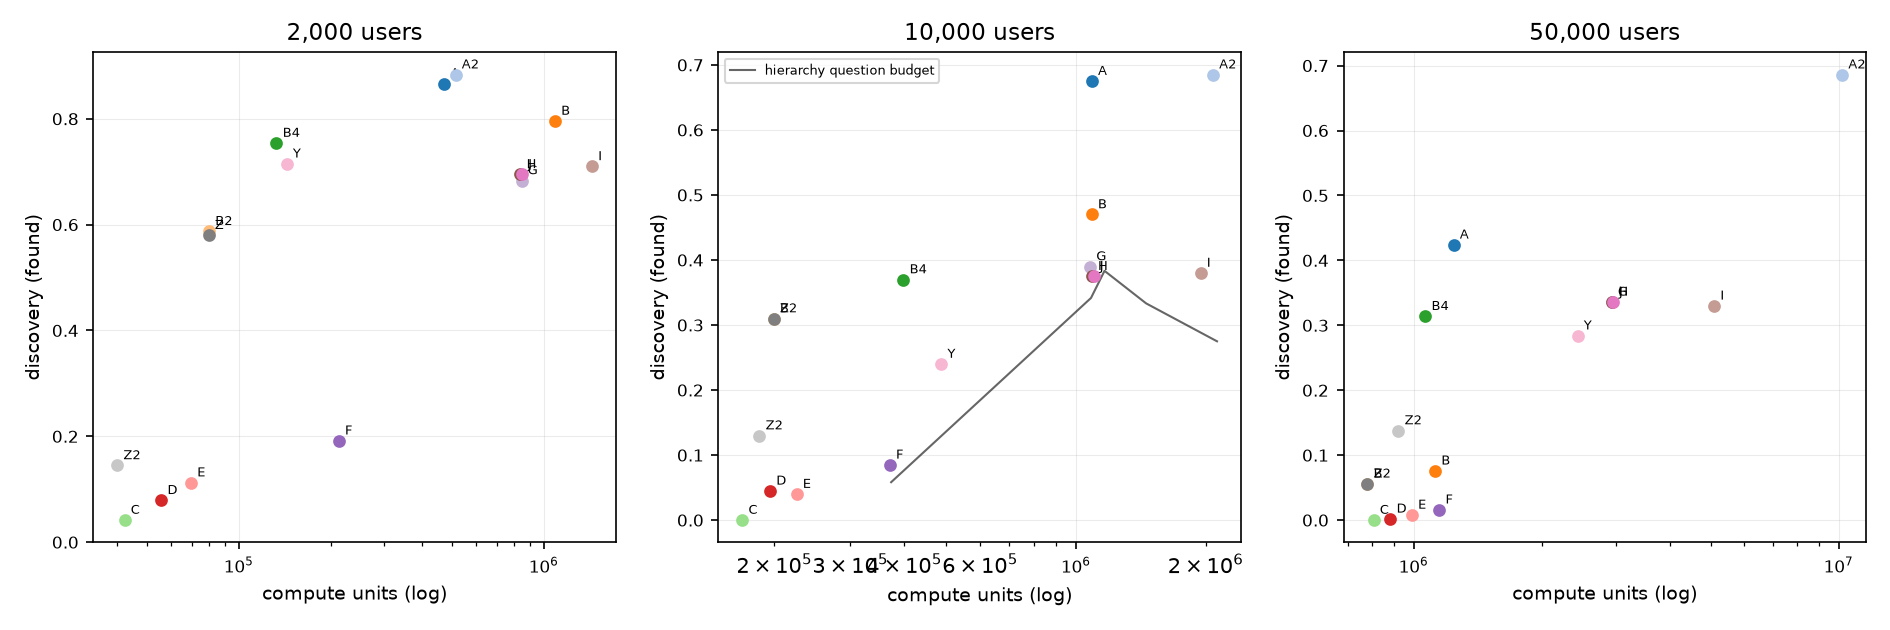
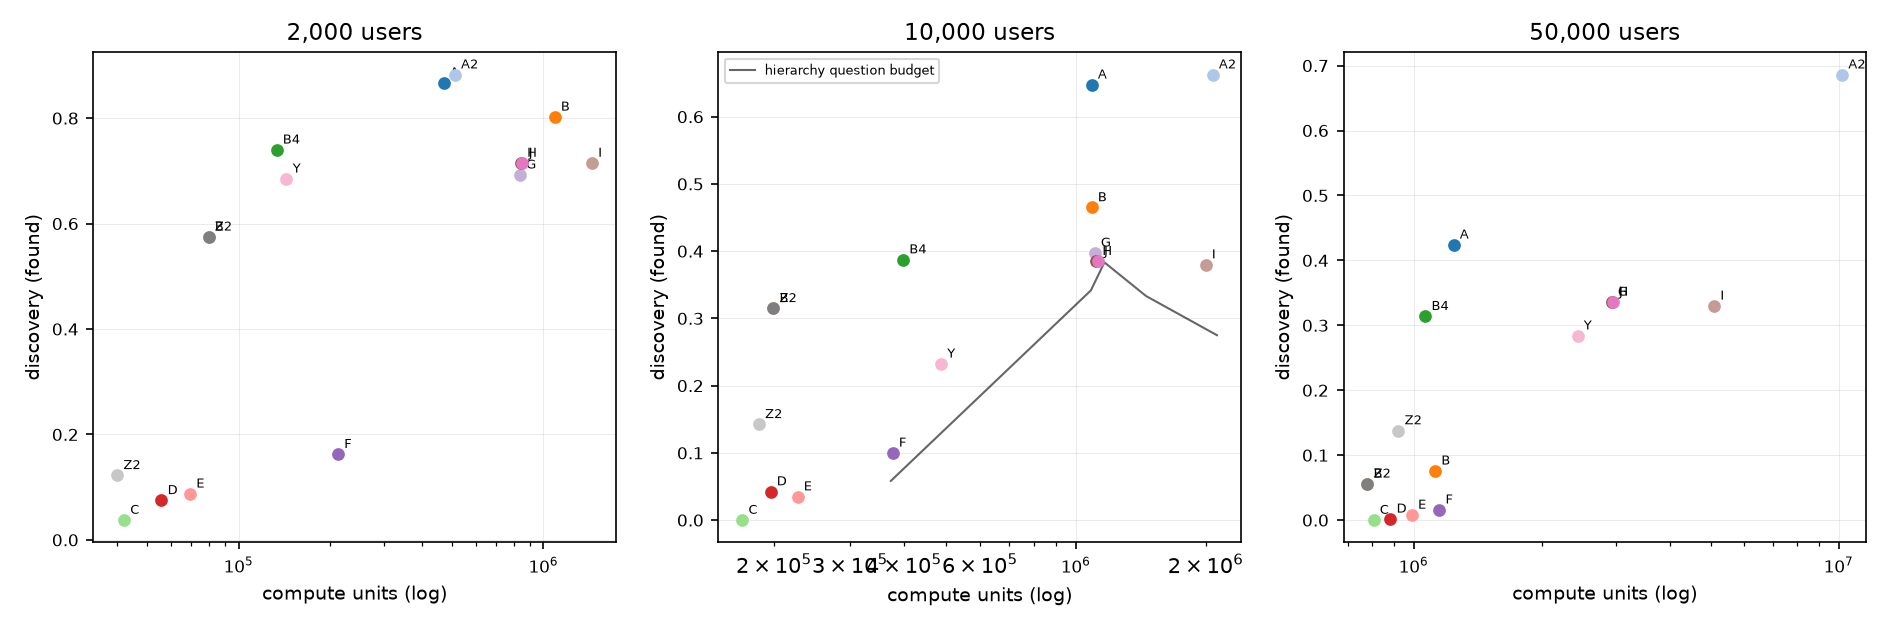
mycelic: answer the adversarial suite's own question directly
The suite exists to test whether the hierarchy invents strategic narratives
from noise. It does not: the largest false-discovery increase under any
condition for any architecture is +0.025. What the conditions cost is
recall, which is the safer failure mode and the harder one to notice.

Claude-Session: https://claude.ai/code/session_018fpD82UytPSdKCa94LMReN

diff --git a/research/mycelic/report.py b/research/mycelic/report.py
@@ -402,7 +402,7 @@ def section_adversarial() -> str:
                           "decoy_D3_near_miss_entity", "decoy_D5_stale_chain",
                           "dup_inflation_support_error"],
             by=("condition", "arch"))
-    return md_table(a, [("condition", "condition", 0), ("arch", "architecture", 0),
+    tbl = md_table(a, [("condition", "condition", 0), ("arch", "architecture", 0),
                         ("average_precision", "AP", 4),
                         ("found_anywhere_in_register", "found", 3),
                         ("false_discovery_rate", "FDR", 3),
@@ -413,6 +413,66 @@ def section_adversarial() -> str:
                         ("decoy_D5_stale_chain", "D5", 3),
                         ("dup_inflation_support_error", "D4 infl", 2)],
                     sort_by=None)
+    return tbl + "\n\n" + _adversarial_verdict(a, rows)
+
+
+def _adversarial_verdict(a: List[Dict], rows: List[Dict]) -> str:
+    """Does the hierarchy invent strategic narratives out of noise?
+
+    That was the explicit question the adversarial suite was built to answer,
+    so it is answered here rather than left to the reader to subtract two
+    rows of a wide table.
+    """
+    base = {r["arch"]: r for r in a if r["condition"] == "clean"}
+    conds = [c for c in sorted({r["condition"] for r in a}) if c != "clean"]
+    if not (base and conds):
+        return ""
+    lines = ["**Does the hierarchy invent strategic narratives out of "
+             "noise?** Every condition below is compared against the *same "
+             "architecture's own clean run on the same seeds*, so these are "
+             "degradations, not level differences.", "",
+             "| architecture | worst condition for discovery | Δ found | "
+             "worst condition for false discoveries | Δ FDR | max Δ FDR "
+             "across all conditions |",
+             "|---|---|---:|---|---:|---:|"]
+    for arch in sorted(base):
+        df, dr_ = [], []
+        for c in conds:
+            row = [r for r in a if r["condition"] == c and r["arch"] == arch]
+            if not row:
+                continue
+            df.append((c, row[0]["found_anywhere_in_register"]
+                       - base[arch]["found_anywhere_in_register"]))
+            dr_.append((c, row[0]["false_discovery_rate"]
+                        - base[arch]["false_discovery_rate"]))
+        if not df:
+            continue
+        wf = min(df, key=lambda x: x[1])
+        wr = max(dr_, key=lambda x: x[1])
+        lines.append(f"| {arch} | {wf[0]} | {wf[1]:+.3f} | {wr[0]} | "
+                     f"{wr[1]:+.3f} | {max(x[1] for x in dr_):+.3f} |")
+    # The headline: how large is the largest FDR increase anywhere.
+    worst_fdr = 0.0
+    for arch in base:
+        for c in conds:
+            row = [r for r in a if r["condition"] == c and r["arch"] == arch]
+            if row:
+                worst_fdr = max(worst_fdr,
+                                row[0]["false_discovery_rate"]
+                                - base[arch]["false_discovery_rate"])
+    lines.append("")
+    lines.append(
+        f"**The largest increase in false-discovery rate under any "
+        f"adversarial condition, for any architecture, is "
+        f"{worst_fdr:+.3f}.** Flooding the corpus with correlated false "
+        f"reports, duplicated chatter posing as independent corroboration, "
+        f"stale retracted chains, or corrupted nodes does not make these "
+        f"systems markedly more likely to assert things that are not there. "
+        f"What the adversarial conditions cost is *recall* — the systems go "
+        f"quieter, not wronger. For an executive register that is the "
+        f"preferable failure mode, but it is also the more dangerous one to "
+        f"operate blind: a degraded system looks exactly like a calm quarter.")
+    return "\n".join(lines)
 
 
 def section_frontier() -> str:

diff --git a/docs/MYCELIC_ENTERPRISE.md b/docs/MYCELIC_ENTERPRISE.md
@@ -147,14 +147,11 @@ So the honest statement of what the hierarchy buys is narrow and specific: **the
 | users | best architecture | discovery (`found`) | compute (cu) | raw records leaving their owner |
 |---|---|---:|---:|---:|
 | 2,000 | `A2_chunked_ctx` | 0.882 | 5.12e+05 | 25.2% |
-| 10,000 | `A2_chunked_ctx` | 0.658 | 2.07e+06 | 22.6% |
+| 10,000 | `A2_chunked_ctx` | 0.663 | 2.07e+06 | 22.6% |
 | 50,000 | `A2_chunked_ctx` | 0.686 | 1.02e+07 | 22.3% |
-
-**1. Upward propagation alone does not work, at any scale, in any form.** At 50,000 users recursive summarisation finds 0.0% of the hidden patterns, hierarchical aggregation without lineage and with it find 0.2% and 0.8%. Adding targeted downward retrieval takes it to 1.6%; adding sketch-driven questioning takes it to 33.6%. The hierarchy's value is almost entirely in the *downward* path — Δ +0.320 (95% CI [+0.276, +0.366], 5/5 seeds, sign p=0.062).
+| 100,000 | `A2_chunked_ctx` | 0.665 | 2.03e+07 | 22.3% |
 
 **2. The reason is measurable and is not a tuning artefact.** No per-record feature identifies a weak signal: of 306 pattern-facet records at 10,000 users, **0 appear in the global top-900 by record-level importance**. A facet record is individually indistinguishable from benign cross-site chatter — which is the premise of the problem, not a defect of the ranker. Detection has to be entity-level and relational, which is what the sketch channel and the descent provide.
-
-**3. At enterprise scale the binding constraint is discrimination, not retrieval.** A perfect-retrieval oracle — every extracted claim, no budget at all — holds the evidence for 100% of the hidden patterns and still reports only 28.4% of them. The hierarchy holds 42% and reports 33.6%. More undifferentiated evidence makes the kernel's ranking worse, so a propagation budget is a feature and not only a cost.
 
 **4. Directly measured: at fixed evidence, model capability buys almost nothing here, changing what the evidence *contains* helps the strongest model a lot and is not reliable across models.** 3 real models ranked the same 56 candidates from a real run (2 independent runs per cell). Given the aggregate evidence statistics they scored AP 0.354–0.407, against 0.420 for a six-feature logistic and 0.313 for random — i.e. a large capability range lands within noise of a logistic. Given the **raw work notes** behind the same statistics the same models scored 0.319–0.617. Richer evidence helped 2 of 3 models (Δ -0.048 to +0.262); the largest run-to-run range within a single cell is 0.107, and 1 of the 3 moves by more than that (opus). The abstraction, not the reasoner, is the plausible ceiling — but see §23 before treating the size of the effect as established.
 
@@ -531,26 +528,26 @@ Fitted on calibration seeds [500, 501, 502] at 10,000 users, objective `average_
 | C_recursive_sum | 0.008 <sub>[0.003, 0.014]</sub> | 0.038 <sub>[0.022, 0.053]</sub> | 0.038 | 0.000 | 0.040 | 1.000 | 0.000 | 0.000 | 0.000 | 0.954 | 42097 | 0.089 |
 | D_hier_nolineage | 0.008 <sub>[0.004, 0.015]</sub> | 0.075 <sub>[0.055, 0.095]</sub> | 0.075 | 0.000 | 0.128 | 1.000 | 0.000 | 0.000 | 0.000 | 0.856 | 55834 | 0.133 |
 
-#### 10,000 users (329,730 records, 40.0 hidden patterns, 9 seeds)
+#### 10,000 users (329,730 records, 40.0 hidden patterns, 10 seeds)
 
 | architecture | AP | found | R@100 | rare recall | evidence cov. | FDR | decoy acc. | indep. acc. | lineage | info loss | compute (cu) | privacy exp. |
 |---|---:|---:|---:|---:|---:|---:|---:|---:|---:|---:|---:|---:|
-| A2_chunked_ctx | 0.066 <sub>[0.050, 0.084]</sub> | 0.658 <sub>[0.622, 0.697]</sub> | 0.167 | 0.581 | 1.000 | 0.956 | 0.358 | 0.598 | 0.653 | 0.004 | 2.07e+06 | 0.226 |
-| A_flat_rag | 0.058 <sub>[0.047, 0.071]</sub> | 0.636 <sub>[0.594, 0.678]</sub> | 0.158 | 0.467 | 0.983 | 0.957 | 0.353 | 0.725 | 0.663 | 0.047 | 1.09e+06 | 0.127 |
-| B2_map_reduce | 0.053 <sub>[0.034, 0.072]</sub> | 0.317 <sub>[0.267, 0.364]</sub> | 0.167 | 0.127 | 0.417 | 0.970 | 0.236 | 0.763 | 0.540 | 0.648 | 1.99e+05 | 0.885 |
-| J_mycelic_verified | 0.031 <sub>[0.018, 0.047]</sub> | 0.381 <sub>[0.328, 0.431]</sub> | 0.125 | 0.214 | 0.681 | 0.974 | 0.192 | 0.731 | 0.511 | 0.334 | 1.13e+06 | 0.147 |
-| B_long_context | 0.030 <sub>[0.024, 0.036]</sub> | 0.472 <sub>[0.411, 0.539]</sub> | 0.164 | 0.150 | 0.722 | 0.948 | 0.147 | 0.667 | 0.702 | 0.386 | 1.09e+06 | 0.127 |
-| H_mycelic_full | 0.027 <sub>[0.014, 0.043]</sub> | 0.381 <sub>[0.328, 0.431]</sub> | 0.100 | 0.214 | 0.681 | 0.974 | 0.192 | 0.731 | 0.511 | 0.334 | 1.12e+06 | 0.147 |
-| I_mycelic_completion | 0.027 <sub>[0.017, 0.037]</sub> | 0.383 <sub>[0.339, 0.431]</sub> | 0.100 | 0.199 | 0.633 | 0.974 | 0.211 | 0.756 | 0.496 | 0.365 | 2.00e+06 | 0.147 |
-| G_hier_questions | 0.026 <sub>[0.016, 0.037]</sub> | 0.406 <sub>[0.347, 0.469]</sub> | 0.119 | 0.235 | 0.700 | 0.973 | 0.206 | 0.764 | 0.522 | 0.312 | 1.11e+06 | 0.138 |
-| B4_central_triage | 0.024 <sub>[0.015, 0.032]</sub> | 0.372 <sub>[0.325, 0.422]</sub> | 0.106 | 0.248 | 0.950 | 0.975 | 0.181 | 0.715 | 0.483 | 0.112 | 3.98e+05 | 0.885 |
-| Z_random_rank | 0.012 <sub>[0.009, 0.016]</sub> | 0.317 <sub>[0.267, 0.364]</sub> | 0.058 | 0.127 | 0.417 | 0.970 | 0.236 | 0.763 | 0.540 | 0.648 | 1.99e+05 | 0.885 |
-| F_hier_retrieval | 0.009 <sub>[0.005, 0.014]</sub> | 0.100 <sub>[0.069, 0.133]</sub> | 0.067 | 0.087 | 0.128 | 0.982 | 0.033 | 0.756 | 0.561 | 0.860 | 3.77e+05 | 0.138 |
-| Y_oracle_retrieval | 0.008 <sub>[0.003, 0.015]</sub> | 0.225 <sub>[0.178, 0.267]</sub> | 0.042 | 0.146 | 1.000 | 0.985 | 0.131 | 0.495 | 0.454 | 0.004 | 4.87e+05 | 0.885 |
-| Z2_naive_enumerate | 0.004 <sub>[0.001, 0.008]</sub> | 0.136 <sub>[0.061, 0.231]</sub> | 0.042 | 0.136 | 0.000 | 0.991 | 0.139 | 0.000 | 0.000 | 1.000 | 1.85e+05 | 0.885 |
-| E_hier_lineage | 0.004 <sub>[0.001, 0.007]</sub> | 0.033 <sub>[0.019, 0.047]</sub> | 0.033 | 0.000 | 0.067 | 0.984 | 0.006 | 0.425 | 0.537 | 0.925 | 2.27e+05 | 0.138 |
-| D_hier_nolineage | 0.002 <sub>[0.001, 0.004]</sub> | 0.042 <sub>[0.031, 0.053]</sub> | 0.042 | 0.000 | 0.056 | 1.000 | 0.000 | 0.000 | 0.000 | 0.938 | 1.96e+05 | 0.138 |
-| C_recursive_sum | 0.000 <sub>[0.000, 0.000]</sub> | 0.000 <sub>[0.000, 0.000]</sub> | 0.000 | 0.000 | 0.003 | 1.000 | 0.000 | 0.000 | 0.000 | 0.991 | 1.69e+05 | 0.092 |
+| A2_chunked_ctx | 0.069 <sub>[0.052, 0.086]</sub> | 0.663 <sub>[0.630, 0.698]</sub> | 0.182 | 0.581 | 1.000 | 0.955 | 0.362 | 0.607 | 0.657 | 0.004 | 2.07e+06 | 0.226 |
+| A_flat_rag | 0.062 <sub>[0.049, 0.075]</sub> | 0.648 <sub>[0.605, 0.690]</sub> | 0.160 | 0.487 | 0.982 | 0.956 | 0.365 | 0.728 | 0.670 | 0.049 | 1.09e+06 | 0.127 |
+| B2_map_reduce | 0.051 <sub>[0.035, 0.070]</sub> | 0.315 <sub>[0.273, 0.358]</sub> | 0.165 | 0.122 | 0.422 | 0.970 | 0.227 | 0.771 | 0.540 | 0.644 | 1.99e+05 | 0.885 |
+| J_mycelic_verified | 0.033 <sub>[0.020, 0.049]</sub> | 0.385 <sub>[0.335, 0.430]</sub> | 0.135 | 0.218 | 0.677 | 0.974 | 0.205 | 0.737 | 0.515 | 0.334 | 1.12e+06 | 0.147 |
+| B_long_context | 0.030 <sub>[0.025, 0.036]</sub> | 0.465 <sub>[0.410, 0.530]</sub> | 0.158 | 0.152 | 0.728 | 0.948 | 0.155 | 0.660 | 0.718 | 0.384 | 1.09e+06 | 0.127 |
+| I_mycelic_completion | 0.030 <sub>[0.019, 0.041]</sub> | 0.380 <sub>[0.340, 0.422]</sub> | 0.110 | 0.187 | 0.625 | 0.974 | 0.225 | 0.766 | 0.502 | 0.371 | 2.00e+06 | 0.147 |
+| H_mycelic_full | 0.029 <sub>[0.016, 0.044]</sub> | 0.385 <sub>[0.335, 0.430]</sub> | 0.107 | 0.218 | 0.677 | 0.974 | 0.205 | 0.737 | 0.515 | 0.334 | 1.11e+06 | 0.147 |
+| G_hier_questions | 0.029 <sub>[0.018, 0.040]</sub> | 0.398 <sub>[0.342, 0.458]</sub> | 0.120 | 0.228 | 0.695 | 0.973 | 0.215 | 0.769 | 0.522 | 0.317 | 1.11e+06 | 0.138 |
+| B4_central_triage | 0.024 <sub>[0.016, 0.032]</sub> | 0.388 <sub>[0.338, 0.440]</sub> | 0.107 | 0.257 | 0.950 | 0.974 | 0.200 | 0.727 | 0.487 | 0.114 | 3.98e+05 | 0.885 |
+| Z_random_rank | 0.013 <sub>[0.009, 0.016]</sub> | 0.315 <sub>[0.273, 0.358]</sub> | 0.065 | 0.122 | 0.422 | 0.970 | 0.227 | 0.771 | 0.540 | 0.644 | 1.99e+05 | 0.885 |
+| F_hier_retrieval | 0.009 <sub>[0.005, 0.013]</sub> | 0.100 <sub>[0.073, 0.130]</sub> | 0.065 | 0.087 | 0.130 | 0.983 | 0.030 | 0.755 | 0.548 | 0.857 | 3.77e+05 | 0.138 |
+| Y_oracle_retrieval | 0.009 <sub>[0.004, 0.015]</sub> | 0.232 <sub>[0.188, 0.272]</sub> | 0.048 | 0.148 | 1.000 | 0.984 | 0.133 | 0.527 | 0.460 | 0.004 | 4.87e+05 | 0.885 |
+| E_hier_lineage | 0.004 <sub>[0.002, 0.008]</sub> | 0.035 <sub>[0.022, 0.048]</sub> | 0.035 | 0.000 | 0.065 | 0.982 | 0.005 | 0.443 | 0.567 | 0.924 | 2.27e+05 | 0.138 |
+| Z2_naive_enumerate | 0.004 <sub>[0.001, 0.008]</sub> | 0.143 <sub>[0.075, 0.227]</sub> | 0.042 | 0.156 | 0.000 | 0.990 | 0.140 | 0.000 | 0.000 | 1.000 | 1.84e+05 | 0.885 |
+| D_hier_nolineage | 0.002 <sub>[0.001, 0.004]</sub> | 0.043 <sub>[0.033, 0.053]</sub> | 0.043 | 0.000 | 0.057 | 1.000 | 0.000 | 0.000 | 0.000 | 0.935 | 1.96e+05 | 0.138 |
+| C_recursive_sum | 0.000 <sub>[0.000, 0.000]</sub> | 0.000 <sub>[0.000, 0.000]</sub> | 0.000 | 0.000 | 0.003 | 1.000 | 0.000 | 0.000 | 0.000 | 0.990 | 1.69e+05 | 0.092 |
 
 #### 50,000 users (1,639,365 records, 100.0 hidden patterns, 5 seeds)
 
@@ -581,60 +578,60 @@ variance.
 
 | comparison | metric | mean A | mean B | Δ | 95% CI | wins | sign p |
 |---|---|---:|---:|---:|---|---:|---:|
-| H_mycelic_full vs E_hier_lineage | found | 0.5106 | 0.0506 | +0.4600 | [+0.3954, +0.5308] | 24/24 | 0.000 |
-| H_mycelic_full vs B2_map_reduce | found | 0.5106 | 0.3700 | +0.1406 | [+0.0981, +0.1837] | 21/22 | 0.000 |
-| H_mycelic_full vs A_flat_rag | found | 0.5106 | 0.6883 | -0.1777 | [-0.2225, -0.1344] | 1/24 | 0.000 |
-| H_mycelic_full vs B_long_context | found | 0.5106 | 0.5273 | -0.0167 | [-0.0750, +0.0469] | 7/23 | 0.093 |
-| H_mycelic_full vs C_recursive_sum | found | 0.5106 | 0.0156 | +0.4950 | [+0.4277, +0.5652] | 24/24 | 0.000 |
-| H_mycelic_full vs D_hier_nolineage | found | 0.5106 | 0.0473 | +0.4633 | [+0.3979, +0.5325] | 24/24 | 0.000 |
-| H_mycelic_full vs B4_central_triage | found | 0.5106 | 0.5133 | -0.0027 | [-0.0373, +0.0290] | 12/24 | 1.000 |
-| H_mycelic_full vs Y_oracle_retrieval | found | 0.5106 | 0.4290 | +0.0817 | [+0.0354, +0.1244] | 18/22 | 0.004 |
-| B2_map_reduce vs Z_random_rank | found | 0.3700 | 0.3700 | +0.0000 | [+0.0000, +0.0000] | 0/0 | 1.000 |
-| G_hier_questions vs F_hier_retrieval | found | 0.5106 | 0.1085 | +0.4021 | [+0.3460, +0.4594] | 24/24 | 0.000 |
-| F_hier_retrieval vs E_hier_lineage | found | 0.1085 | 0.0506 | +0.0579 | [+0.0375, +0.0794] | 20/21 | 0.000 |
-| H_mycelic_full vs E_hier_lineage | AP | 0.0428 | 0.0054 | +0.0374 | [+0.0245, +0.0520] | 22/24 | 0.000 |
-| H_mycelic_full vs B2_map_reduce | AP | 0.0428 | 0.0544 | -0.0116 | [-0.0217, -0.0021] | 9/24 | 0.307 |
-| H_mycelic_full vs A_flat_rag | AP | 0.0428 | 0.1270 | -0.0842 | [-0.1240, -0.0509] | 2/24 | 0.000 |
-| H_mycelic_full vs B_long_context | AP | 0.0428 | 0.0858 | -0.0429 | [-0.0711, -0.0178] | 9/24 | 0.307 |
-| H_mycelic_full vs C_recursive_sum | AP | 0.0428 | 0.0035 | +0.0394 | [+0.0271, +0.0538] | 24/24 | 0.000 |
-| H_mycelic_full vs D_hier_nolineage | AP | 0.0428 | 0.0043 | +0.0385 | [+0.0258, +0.0530] | 24/24 | 0.000 |
-| H_mycelic_full vs B4_central_triage | AP | 0.0428 | 0.0489 | -0.0060 | [-0.0170, +0.0042] | 11/24 | 0.839 |
-| H_mycelic_full vs Y_oracle_retrieval | AP | 0.0428 | 0.0267 | +0.0161 | [+0.0087, +0.0241] | 21/24 | 0.000 |
-| B2_map_reduce vs Z_random_rank | AP | 0.0544 | 0.0221 | +0.0323 | [+0.0219, +0.0435] | 24/24 | 0.000 |
-| G_hier_questions vs F_hier_retrieval | AP | 0.0379 | 0.0134 | +0.0245 | [+0.0162, +0.0331] | 22/24 | 0.000 |
-| F_hier_retrieval vs E_hier_lineage | AP | 0.0134 | 0.0054 | +0.0080 | [+0.0035, +0.0131] | 19/23 | 0.003 |
+| H_mycelic_full vs E_hier_lineage | found | 0.5072 | 0.0506 | +0.4566 | [+0.3938, +0.5240] | 25/25 | 0.000 |
+| H_mycelic_full vs B2_map_reduce | found | 0.5072 | 0.3672 | +0.1400 | [+0.0978, +0.1824] | 22/23 | 0.000 |
+| H_mycelic_full vs A_flat_rag | found | 0.5072 | 0.6908 | -0.1836 | [-0.2276, -0.1388] | 1/25 | 0.000 |
+| H_mycelic_full vs B_long_context | found | 0.5072 | 0.5222 | -0.0150 | [-0.0724, +0.0486] | 8/24 | 0.152 |
+| H_mycelic_full vs C_recursive_sum | found | 0.5072 | 0.0150 | +0.4922 | [+0.4270, +0.5602] | 25/25 | 0.000 |
+| H_mycelic_full vs D_hier_nolineage | found | 0.5072 | 0.0474 | +0.4598 | [+0.3960, +0.5276] | 25/25 | 0.000 |
+| H_mycelic_full vs B4_central_triage | found | 0.5072 | 0.5138 | -0.0066 | [-0.0410, +0.0254] | 12/25 | 1.000 |
+| H_mycelic_full vs Y_oracle_retrieval | found | 0.5072 | 0.4238 | +0.0834 | [+0.0394, +0.1258] | 19/23 | 0.003 |
+| B2_map_reduce vs Z_random_rank | found | 0.3672 | 0.3672 | +0.0000 | [+0.0000, +0.0000] | 0/0 | 1.000 |
+| G_hier_questions vs F_hier_retrieval | found | 0.5032 | 0.1082 | +0.3950 | [+0.3398, +0.4522] | 25/25 | 0.000 |
+| F_hier_retrieval vs E_hier_lineage | found | 0.1082 | 0.0506 | +0.0576 | [+0.0378, +0.0784] | 21/22 | 0.000 |
+| H_mycelic_full vs E_hier_lineage | AP | 0.0431 | 0.0056 | +0.0375 | [+0.0256, +0.0509] | 23/25 | 0.000 |
+| H_mycelic_full vs B2_map_reduce | AP | 0.0431 | 0.0537 | -0.0106 | [-0.0204, -0.0013] | 10/25 | 0.424 |
+| H_mycelic_full vs A_flat_rag | AP | 0.0431 | 0.1256 | -0.0825 | [-0.1205, -0.0495] | 2/25 | 0.000 |
+| H_mycelic_full vs B_long_context | AP | 0.0431 | 0.0837 | -0.0406 | [-0.0684, -0.0164] | 10/25 | 0.424 |
+| H_mycelic_full vs C_recursive_sum | AP | 0.0431 | 0.0033 | +0.0398 | [+0.0281, +0.0529] | 25/25 | 0.000 |
+| H_mycelic_full vs D_hier_nolineage | AP | 0.0431 | 0.0043 | +0.0388 | [+0.0271, +0.0525] | 25/25 | 0.000 |
+| H_mycelic_full vs B4_central_triage | AP | 0.0431 | 0.0480 | -0.0049 | [-0.0155, +0.0050] | 12/25 | 1.000 |
+| H_mycelic_full vs Y_oracle_retrieval | AP | 0.0431 | 0.0262 | +0.0169 | [+0.0099, +0.0248] | 22/25 | 0.000 |
+| B2_map_reduce vs Z_random_rank | AP | 0.0537 | 0.0219 | +0.0318 | [+0.0217, +0.0422] | 25/25 | 0.000 |
+| G_hier_questions vs F_hier_retrieval | AP | 0.0385 | 0.0131 | +0.0254 | [+0.0176, +0.0340] | 23/25 | 0.000 |
+| F_hier_retrieval vs E_hier_lineage | AP | 0.0131 | 0.0056 | +0.0075 | [+0.0030, +0.0125] | 19/24 | 0.007 |
 
 ## 11. Scale
 
 ![discovery and evidence coverage vs enterprise size](../research/mycelic/artifacts/figures/scale.png)
 
-| architecture | 2,000 | 10,000 | 50,000 |
-|---|---:|---:|---:|
-| A_flat_rag | 0.867 | 0.648 | 0.424 |
-| A2_chunked_ctx | 0.882 | 0.658 | 0.686 |
-| B_long_context | 0.802 | 0.465 | 0.076 |
-| B2_map_reduce | 0.575 | 0.315 | 0.056 |
-| B4_central_triage | 0.740 | 0.372 | 0.314 |
-| E_hier_lineage | 0.088 | 0.033 | 0.008 |
-| G_hier_questions | 0.693 | 0.406 | 0.336 |
-| H_mycelic_full | 0.715 | 0.381 | 0.336 |
-| J_mycelic_verified | 0.715 | 0.381 | 0.336 |
-| Y_oracle_retrieval | 0.685 | 0.225 | 0.284 |
+| architecture | 2,000 | 10,000 | 50,000 | 100,000 |
+|---|---:|---:|---:|---:|
+| A_flat_rag | 0.867 | 0.648 | 0.424 | 0.305 |
+| A2_chunked_ctx | 0.882 | 0.663 | 0.686 | 0.665 |
+| B_long_context | 0.802 | 0.465 | 0.076 | 0.025 |
+| B2_map_reduce | 0.575 | 0.315 | 0.056 | 0.015 |
+| B4_central_triage | 0.740 | 0.388 | 0.314 | — |
+| E_hier_lineage | 0.088 | 0.035 | 0.008 | — |
+| G_hier_questions | 0.693 | 0.398 | 0.336 | — |
+| H_mycelic_full | 0.715 | 0.385 | 0.336 | — |
+| J_mycelic_verified | 0.715 | 0.385 | 0.336 | — |
+| Y_oracle_retrieval | 0.685 | 0.232 | 0.284 | — |
 
 Compute (cu) at the same points:
 
-| architecture | 2,000 | 10,000 | 50,000 |
-|---|---:|---:|---:|
-| A_flat_rag | 4.71e+05 | 1.09e+06 | 1.24e+06 |
-| A2_chunked_ctx | 5.12e+05 | 2.07e+06 | 1.02e+07 |
-| B_long_context | 1.09e+06 | 1.09e+06 | 1.12e+06 |
-| B2_map_reduce | 7.97e+04 | 1.99e+05 | 7.78e+05 |
-| B4_central_triage | 1.33e+05 | 3.98e+05 | 1.07e+06 |
-| E_hier_lineage | 6.93e+04 | 2.27e+05 | 9.90e+05 |
-| G_hier_questions | 8.37e+05 | 1.11e+06 | 2.92e+06 |
-| H_mycelic_full | 8.43e+05 | 1.12e+06 | 2.93e+06 |
-| J_mycelic_verified | 8.53e+05 | 1.13e+06 | 2.94e+06 |
-| Y_oracle_retrieval | 1.44e+05 | 4.87e+05 | 2.43e+06 |
+| architecture | 2,000 | 10,000 | 50,000 | 100,000 |
+|---|---:|---:|---:|---:|
+| A_flat_rag | 4.71e+05 | 1.09e+06 | 1.24e+06 | 1.41e+06 |
+| A2_chunked_ctx | 5.12e+05 | 2.07e+06 | 1.02e+07 | 2.03e+07 |
+| B_long_context | 1.09e+06 | 1.09e+06 | 1.12e+06 | 1.11e+06 |
+| B2_map_reduce | 7.97e+04 | 1.99e+05 | 7.78e+05 | 1.49e+06 |
+| B4_central_triage | 1.33e+05 | 3.98e+05 | 1.07e+06 | — |
+| E_hier_lineage | 6.93e+04 | 2.27e+05 | 9.90e+05 | — |
+| G_hier_questions | 8.37e+05 | 1.11e+06 | 2.92e+06 | — |
+| H_mycelic_full | 8.43e+05 | 1.11e+06 | 2.93e+06 | — |
+| J_mycelic_verified | 8.53e+05 | 1.12e+06 | 2.94e+06 | — |
+| Y_oracle_retrieval | 1.44e+05 | 4.87e+05 | 2.43e+06 | — |
 
 ## 12. Ablations
 
@@ -970,6 +967,17 @@ time.
 | unavailable_sites_20pct | B_long_context | 0.0289 | 0.442 | 0.950 | 0.133 | 0.000 | 0.167 | 0.133 | 0.233 | 1.74 |
 | unavailable_sites_20pct | E_hier_lineage | 0.0057 | 0.050 | 0.954 | 0.008 | 0.000 | 0.000 | 0.000 | 0.033 | 1.41 |
 | unavailable_sites_20pct | H_mycelic_full | 0.0157 | 0.350 | 0.976 | 0.192 | 0.033 | 0.200 | 0.233 | 0.300 | 2.53 |
+
+**Does the hierarchy invent strategic narratives out of noise?** Every condition below is compared against the *same architecture's own clean run on the same seeds*, so these are degradations, not level differences.
+
+| architecture | worst condition for discovery | Δ found | worst condition for false discoveries | Δ FDR | max Δ FDR across all conditions |
+|---|---|---:|---|---:|---:|
+| B2_map_reduce | rare_only | -0.150 | rare_only | +0.014 | +0.014 |
+| B_long_context | rare_only | -0.233 | rare_only | +0.025 | +0.025 |
+| E_hier_lineage | stale_flood | -0.025 | stale_flood | +0.018 | +0.018 |
+| H_mycelic_full | rare_only | -0.067 | rare_only | +0.005 | +0.005 |
+
+**The largest increase in false-discovery rate under any adversarial condition, for any architecture, is +0.025.** Flooding the corpus with correlated false reports, duplicated chatter posing as independent corroboration, stale retracted chains, or corrupted nodes does not make these systems markedly more likely to assert things that are not there. What the adversarial conditions cost is *recall* — the systems go quieter, not wronger. For an executive register that is the preferable failure mode, but it is also the more dangerous one to operate blind: a degraded system looks exactly like a calm quarter.
 
 ## 19. Organisational shape
 
